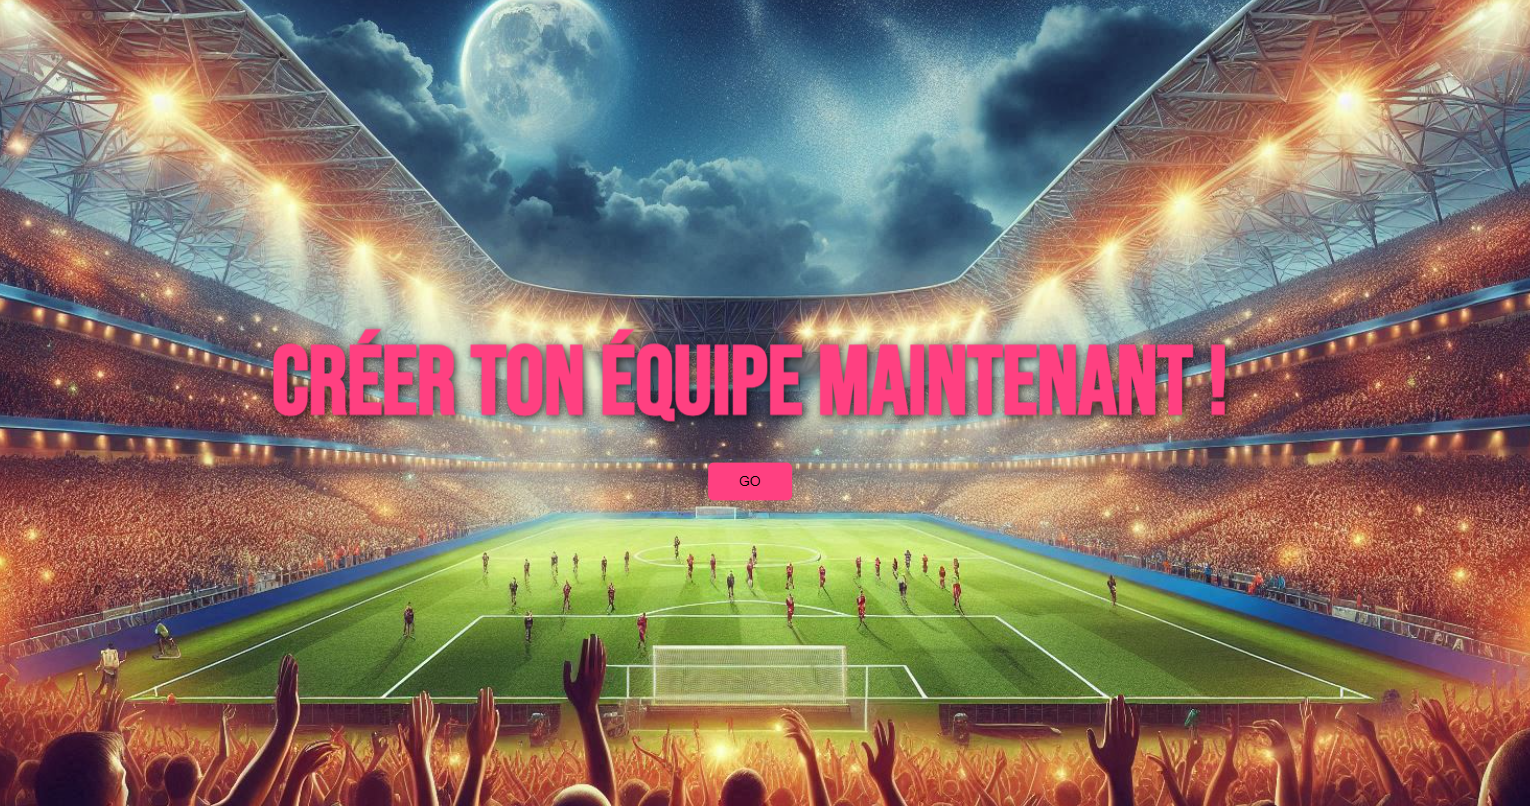
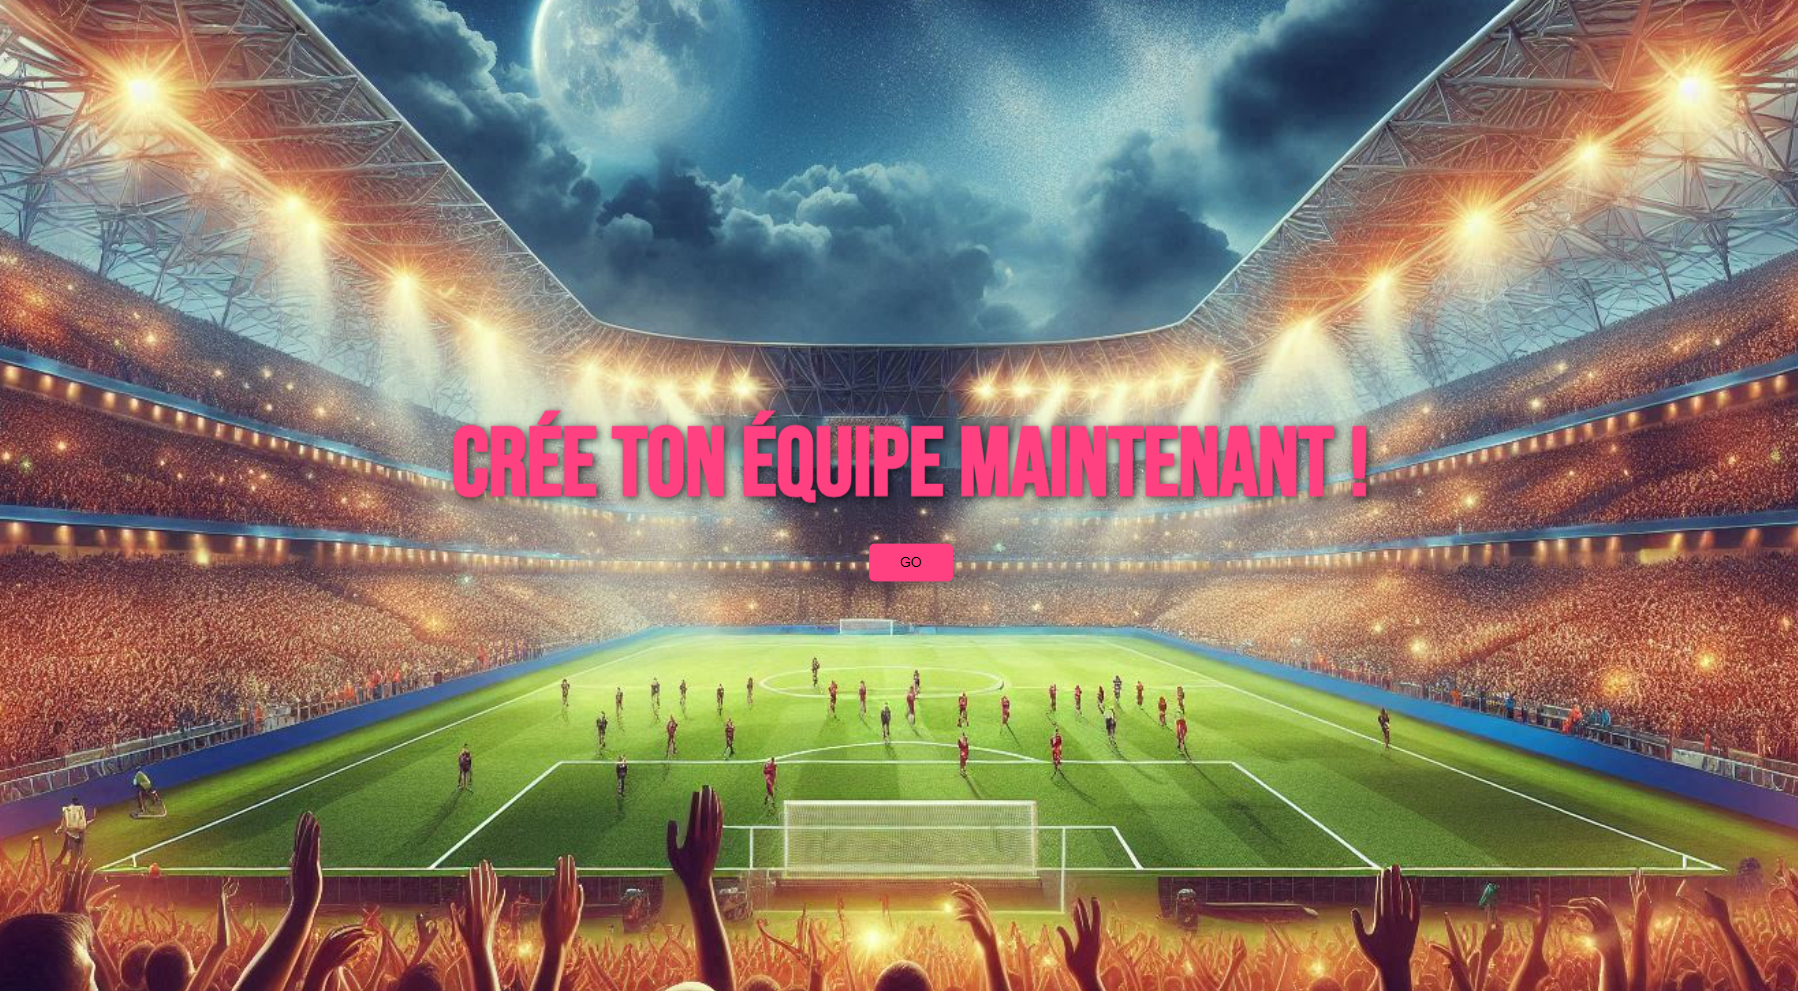
fix text

diff --git a/FUT/src/views/Welcome.vue b/FUT/src/views/Welcome.vue
@@ -1,7 +1,7 @@
 <template>
     <div class="page-wrapper">
         <div class="container">
-            <h1>Créer ton équipe maintenant !</h1>
+            <h1>Crée ton équipe maintenant !</h1>
             <Button to="/Home" class="big-button">GO</Button>
         </div>
     </div>
